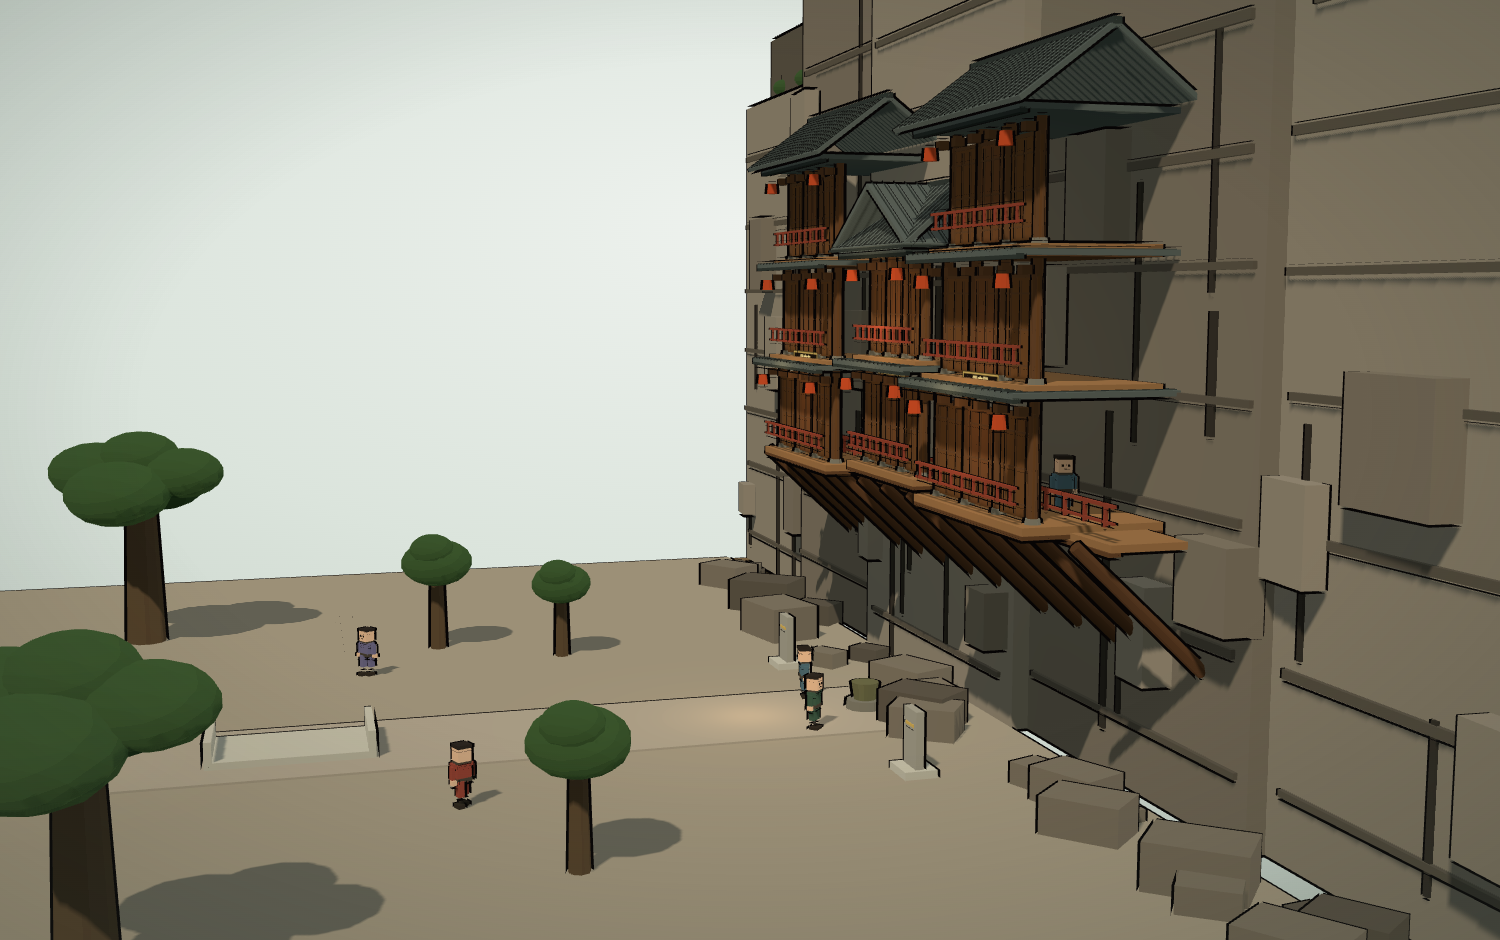
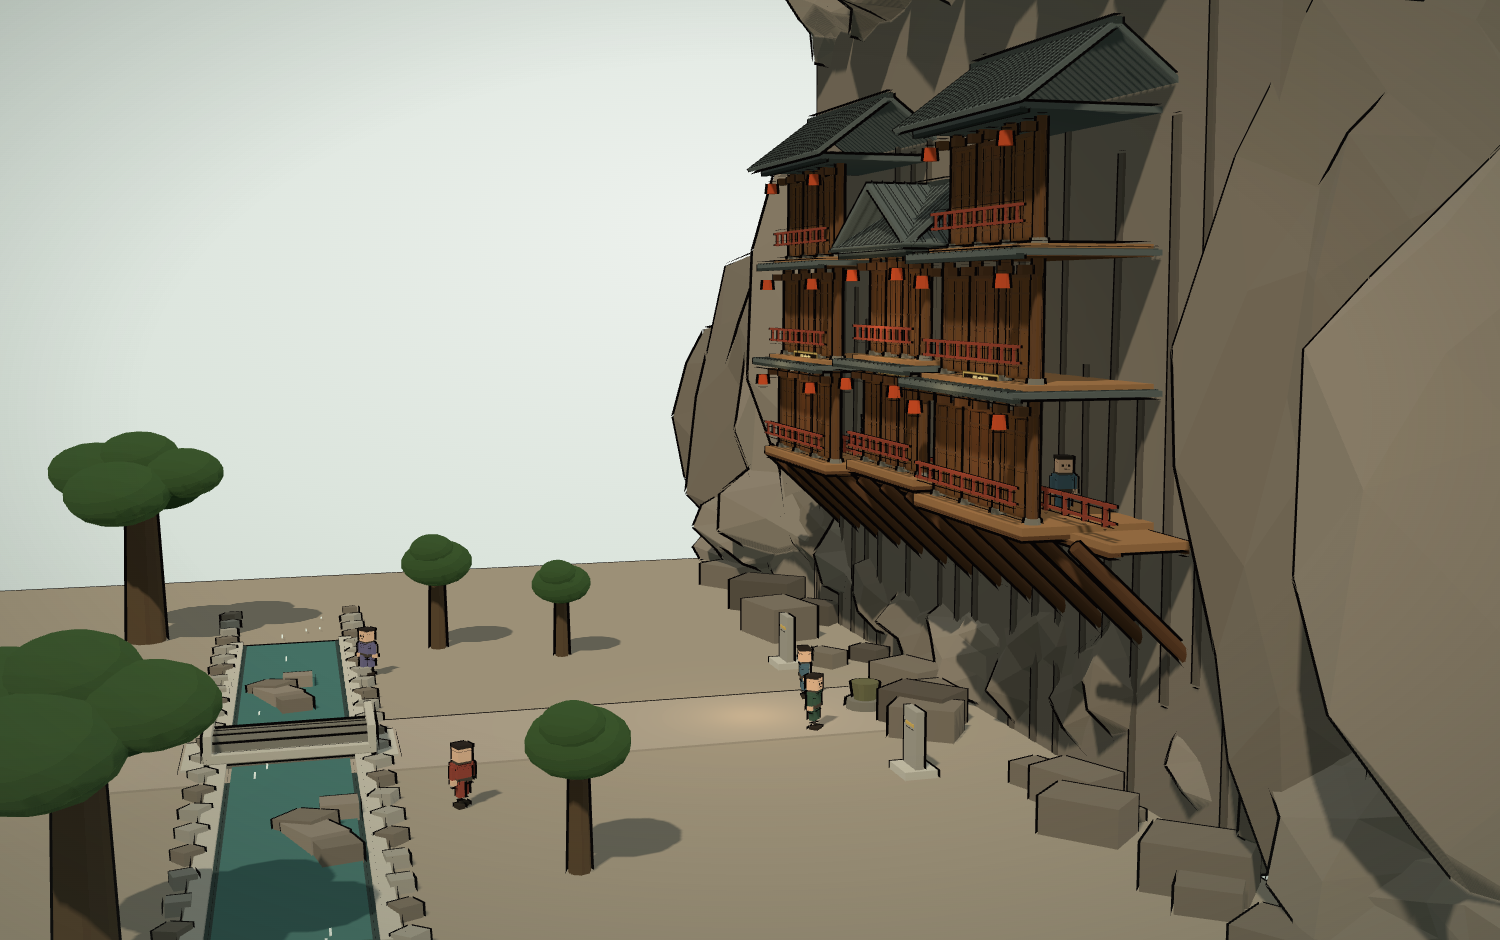
fix(xuankong): 崖壁改为平壁贴阁 + 两侧低模岩山 + 山脊，不再是方盒子

diff --git a/docs/xuankong.html b/docs/xuankong.html
@@ -19742,59 +19742,78 @@ function xsBase(b) {
   }
 }
 
-/* ---------------- 崖壁：五段岩体错落 + 层理 + 裂缝 ---------------- */
+/* ---------------- 崖壁：中间平壁贴楼阁，两侧与崖顶是低模岩山 ---------------- */
+function xsRockHill(b, cx, czBase, R, H, seed, key, y0) {
+  const g = new T.IcosahedronGeometry(1, 2);
+  const p = g.attributes.position;
+  for (let i = 0; i < p.count; i++) {
+    const vx = p.getX(i), vy = p.getY(i), vz = p.getZ(i);
+    /* 位置相关的连续噪声，避免撒点；vy 加权让上部更碎 */
+    const k = 0.88
+      + 0.16 * Math.sin(vx * 3.7 + vy * 2.9 + vz * 3.1 + seed)
+      + 0.09 * Math.sin(vx * 7.3 - vz * 6.1 + seed * 1.7)
+      + 0.05 * Math.cos(Math.atan2(vz, vx) * 5.0 + seed) * (0.3 + 0.7 * Math.abs(vy));
+    p.setXYZ(i, vx * k * R, vy * k * H * 0.5 + H * 0.42, vz * k * R * 1.15);
+  }
+  g.computeVertexNormals();
+  g.translate(cx, (y0 === undefined ? XS_GY : y0), czBase);
+  b.add(key || 'xsRock', g);
+}
+
 function xsCliff(b) {
-  /* 每段：主块（下）+ 台坎（上），正面统一 XS_CZ，两侧段落前后错开 */
-  const segs = [
-    { x: -23.0, w: 10.0, h: 21.0, zf: XS_CZ - 0.9, zb: XS_Z0 },
-    { x: -13.5, w: 9.0, h: 25.0, zf: XS_CZ - 0.4, zb: XS_Z0 },
-    { x: -3.0, w: 12.0, h: 27.0, zf: XS_CZ, zb: XS_Z0 },
-    { x: 8.5, w: 11.0, h: 24.0, zf: XS_CZ - 0.5, zb: XS_Z0 },
-    { x: 20.0, w: 12.0, h: 20.0, zf: XS_CZ - 1.0, zb: XS_Z0 }
-  ];
-  segs.forEach(function (q, k) {
-    const d = q.zf - q.zb;
-    b.box(k % 2 ? 'xsRock' : 'xsRockL', q.w, q.h, d, q.x, XS_GY + q.h / 2, (q.zf + q.zb) / 2);
-    /* 上部台坎：比主块窄、略前，形成崖壁的「肩」 */
-    b.box('xsRockD', q.w * 0.78, 3.2, d * 0.55, q.x + (k % 2 ? 0.4 : -0.4),
-      XS_GY + q.h + 1.4, (q.zf + q.zb) / 2 + 0.4);
-    /* 层理：每 2.8 米一道，别做成货架 */
-    const n = Math.floor(q.h / 2.8);
-    for (let i = 0; i < n; i++) {
-      const yy = XS_GY + 1.4 + i * 2.8;
-      b.box('xsRockD', q.w * (0.86 + xsR(i * 3.1 + k) * 0.12),
-        0.16 + xsR(i * 5.7) * 0.10, 0.20, q.x,
-        yy + xsR(i * 7.3 + k) * 0.6, q.zf + 0.02);
-    }
-    /* 凸岩块：贴面几块，破掉方盒子的直边 */
-    for (let i = 0; i < 4; i++) {
-      const bw = 1.2 + xsR(i * 3.7 + k) * 1.6;
-      const bh = 1.4 + xsR(i * 5.9 + k) * 2.2;
-      b.box(i % 2 ? 'xsRock' : 'xsRockL', bw, bh, 0.55 + xsR(i * 7.1) * 0.5,
-        q.x - q.w / 2 + 1.0 + i * (q.w - 2.0) / 3, XS_GY + 3.0 + xsR(i * 9.3 + k) * (q.h - 8),
-        q.zf + 0.28, 0, (xsR(i * 11.7) - 0.5) * 0.2, 0);
-    }
-    /* 裂缝：竖向深带 */
-    for (let i = 0; i < 5; i++) {
-      const cx = q.x - q.w / 2 + 0.8 + xsR(i * 4.3 + k * 2.1) * (q.w - 1.6);
-      const hh = 2.5 + xsR(i * 6.1 + k) * 7.0;
-      b.box('xsCrack', 0.14 + xsR(i * 8.7) * 0.16, hh, 0.08,
-        cx, XS_GY + 2.0 + xsR(i * 9.3 + k) * (q.h - 6), q.zf + 0.04);
-    }
-    /* 崖顶植被：每段两三丛 */
+  /* 中间平壁：楼阁必须贴平面（真实悬空寺也是贴在较平整的凹龛里） */
+  b.box('xsRock', 30.0, 23.0, 6.0, 0, XS_GY + 11.5, XS_CZ - 3.0);
+  /* 平壁上凿竖痕：不让它读成混凝土 */
+  for (let i = 0; i < 22; i++) {
+    const x = -14.4 + i * 1.35;
+    const hh = 7 + xsR(i * 3.1) * 12;
+    b.box('xsRockD', 0.16 + xsR(i * 5.7) * 0.12, hh, 0.08, x,
+      XS_GY + 2.0 + xsR(i * 7.3) * 12, XS_CZ + 0.04, 0, 0, (xsR(i * 9.1) - 0.5) * 0.04);
+  }
+  /* 平壁上的凹龛：楼阁之间与楼阁下方 */
+  [[-3.6, 10.6, 1.2, 5.5], [3.6, 10.6, 1.2, 5.5], [0, 5.4, 6.0, 2.4]].forEach(function (q) {
+    b.box('xsCrack', q[2], q[3], 0.9, q[0], XS_GY + q[1], XS_CZ - 0.45);
+  });
+
+  /* 两侧：低模岩山，高度向谷底递减 */
+  [
+    [-22.0, 19.0, 5.6, 1.3], [-17.0, 22.0, 4.6, 2.7], [-26.4, 13.0, 4.2, 4.1],
+    [22.0, 18.0, 5.2, 5.3], [17.0, 21.5, 4.4, 6.7], [26.4, 12.0, 4.0, 8.1]
+  ].forEach(function (q, k) {
+    xsRockHill(b, q[0], XS_CZ - q[2] * 0.55, q[2], q[1], q[3], k % 2 ? 'xsRockL' : 'xsRock');
+  });
+
+  /* 平顶盖：五块小岩山压在平壁顶上，藏掉直角 */
+  for (let i = 0; i < 6; i++) {
+    xsRockHill(b, -13.0 + i * 5.2, XS_CZ - 2.2, 3.4 + xsR(i * 3.3) * 1.2, 4.6 + xsR(i * 5.1) * 2.2,
+      60 + i, i % 2 ? 'xsRock' : 'xsRockL', XS_GY + 21.0);
+  }
+  /* 崖顶山脊：一串小岩山压天际线 */
+  for (let i = 0; i < 13; i++) {
+    const x = -24 + i * 4.0;
+    const hh = 2.6 + xsR(i * 3.1) * 3.4 + Math.sin(x * 0.24) * 1.2;
+    xsRockHill(b, x, XS_CZ - 2.6, 2.6 + xsR(i * 5.7) * 1.2, hh, 20 + i, i % 3 ? 'xsRock' : 'xsRockL');
+  }
+
+  /* 崖脚：向谷底过渡的碎石坡 */
+  [[-20.0, 6.2, 7.0], [20.5, 5.6, 6.4]].forEach(function (q, k) {
     for (let i = 0; i < 3; i++) {
-      const tx = q.x - q.w / 3 + i * (q.w / 3) + 0.6;
-      const ty = XS_GY + q.h + 0.2;
-      b.sph('xsPine', 0.55 + xsR(i * 5.1 + k) * 0.35, tx, ty + 0.55, q.zf - 1.2, 1.2, 0.7, 1.1);
-      b.cyl('xsBark', 0.10, 0.13, 1.1, 6, tx, ty + 0.55, q.zf - 1.2);
+      xsRockHill(b, q[0] + (k ? 1 : -1) * i * 1.6, XS_CZ - 3.4 + i * 1.0,
+        q[1] * (1 - i * 0.22), q[2] * (1 - i * 0.3), 40 + i + k * 5, 'xsRockL');
     }
   });
-  /* 崖顶平台与栏杆（观景处） */
-  b.box('xsRockL', 10.0, 0.26, 2.2, 0, XS_GY + XS_CT + 0.13, XS_CZ - 1.6);
-  for (let i = 0; i < 9; i++) {
-    b.box('xsWoodD', 0.10, 0.75, 0.10, -6.4 + i * 1.6, XS_GY + XS_CT + 0.68, XS_CZ - 0.30);
+
+  /* 崖顶平台 + 栏杆 + 松 */
+  b.box('xsRockL', 9.0, 0.26, 2.2, 0, XS_GY + 23.30, XS_CZ - 1.8);
+  for (let i = 0; i < 7; i++) {
+    b.box('xsWoodD', 0.10, 0.72, 0.10, -4.8 + i * 1.6, XS_GY + 23.80, XS_CZ - 0.55);
   }
-  b.box('xsWoodD', 13.4, 0.09, 0.09, 0, XS_GY + XS_CT + 1.02, XS_CZ - 0.30);
+  b.box('xsWoodD', 9.8, 0.09, 0.09, 0, XS_GY + 24.14, XS_CZ - 0.55);
+  for (let i = 0; i < 5; i++) {
+    const x = -18 + xsR(i * 3.3) * 36;
+    b.sph('xsPine', 0.7 + xsR(i * 5.1) * 0.4, x, XS_GY + 24.10, XS_CZ - 2.2, 1.2, 0.7, 1.1);
+    b.cyl('xsBark', 0.12, 0.15, 1.0, 6, x, XS_GY + 23.65, XS_CZ - 2.2);
+  }
 }
 
 /* ---------------- 贴壁楼阁：三层木构，后墙由崖壁充当 ---------------- */
@@ -19895,10 +19914,10 @@ function xsWalkway(b) {
 function xsValley(b) {
   const cz = 7.0;
   /* 溪流：做成地面上的石砌水渠，水面必须高于地面（0.55），否则被整块地面埋掉 */
-  b.box('xsRiverBed', 40.0, 0.14, 3.4, 0, XS_GY + 0.07, cz);
-  b.box('xsWaterD', 39.4, 0.05, 3.0, 0, XS_GY + 0.16, cz);
+  b.box('xsRiverBed', 28.0, 0.14, 3.4, 0, XS_GY + 0.07, cz);
+  b.box('xsWaterD', 27.4, 0.05, 3.0, 0, XS_GY + 0.16, cz);
   [-1, 1].forEach(function (s) {
-    b.box('xsStoneL', 40.0, 0.26, 0.42, 0, XS_GY + 0.14, cz + s * 1.85);
+    b.box('xsStoneL', 28.0, 0.26, 0.42, 0, XS_GY + 0.14, cz + s * 1.85);
     for (let i = 0; i < 26; i++) {
       b.box(i % 3 ? 'xsStone' : 'xsRock', 0.55, 0.30, 0.5,
         -19 + i * 1.5, XS_GY + 0.22, cz + s * 2.2, 0, xsR(i * 3.1 + s) * 1.2, 0.08);
@@ -19908,6 +19927,14 @@ function xsValley(b) {
     b.box('xsFoam', 0.3 + xsR(i * 7.3) * 0.4, 0.02, 0.05,
       -18 + xsR(i * 3.1) * 36, XS_GY + 0.20, cz + (xsR(i * 5.7) - 0.5) * 2.2);
   }
+  /* 渠中石矶：打断直水的「泳道感」 */
+  [[-7.6, 0.4], [5.8, -0.5]].forEach(function (q) {
+    for (let i = 0; i < 4; i++) {
+      b.box(i % 2 ? 'xsRock' : 'xsRockL', 1.1 + xsR(i * 3.1) * 0.8, 0.5,
+        0.9, q[0] + i * 0.9, XS_GY + 0.24, cz + q[1] + (xsR(i * 5.7) - 0.5) * 1.2,
+        0, xsR(i * 7.3) * 1.2, 0.1);
+    }
+  });
   /* 石桥：桥面 + 桥拱 + 两级石阶 */
   b.box('xsStoneL', 2.6, 0.22, 4.4, 0, XS_GY + 0.42, cz);
   [-1, 1].forEach(function (s) {

diff --git a/src/scene.js b/src/scene.js
@@ -19606,59 +19606,78 @@ function xsBase(b) {
   }
 }
 
-/* ---------------- 崖壁：五段岩体错落 + 层理 + 裂缝 ---------------- */
+/* ---------------- 崖壁：中间平壁贴楼阁，两侧与崖顶是低模岩山 ---------------- */
+function xsRockHill(b, cx, czBase, R, H, seed, key, y0) {
+  const g = new T.IcosahedronGeometry(1, 2);
+  const p = g.attributes.position;
+  for (let i = 0; i < p.count; i++) {
+    const vx = p.getX(i), vy = p.getY(i), vz = p.getZ(i);
+    /* 位置相关的连续噪声，避免撒点；vy 加权让上部更碎 */
+    const k = 0.88
+      + 0.16 * Math.sin(vx * 3.7 + vy * 2.9 + vz * 3.1 + seed)
+      + 0.09 * Math.sin(vx * 7.3 - vz * 6.1 + seed * 1.7)
+      + 0.05 * Math.cos(Math.atan2(vz, vx) * 5.0 + seed) * (0.3 + 0.7 * Math.abs(vy));
+    p.setXYZ(i, vx * k * R, vy * k * H * 0.5 + H * 0.42, vz * k * R * 1.15);
+  }
+  g.computeVertexNormals();
+  g.translate(cx, (y0 === undefined ? XS_GY : y0), czBase);
+  b.add(key || 'xsRock', g);
+}
+
 function xsCliff(b) {
-  /* 每段：主块（下）+ 台坎（上），正面统一 XS_CZ，两侧段落前后错开 */
-  const segs = [
-    { x: -23.0, w: 10.0, h: 21.0, zf: XS_CZ - 0.9, zb: XS_Z0 },
-    { x: -13.5, w: 9.0, h: 25.0, zf: XS_CZ - 0.4, zb: XS_Z0 },
-    { x: -3.0, w: 12.0, h: 27.0, zf: XS_CZ, zb: XS_Z0 },
-    { x: 8.5, w: 11.0, h: 24.0, zf: XS_CZ - 0.5, zb: XS_Z0 },
-    { x: 20.0, w: 12.0, h: 20.0, zf: XS_CZ - 1.0, zb: XS_Z0 }
-  ];
-  segs.forEach(function (q, k) {
-    const d = q.zf - q.zb;
-    b.box(k % 2 ? 'xsRock' : 'xsRockL', q.w, q.h, d, q.x, XS_GY + q.h / 2, (q.zf + q.zb) / 2);
-    /* 上部台坎：比主块窄、略前，形成崖壁的「肩」 */
-    b.box('xsRockD', q.w * 0.78, 3.2, d * 0.55, q.x + (k % 2 ? 0.4 : -0.4),
-      XS_GY + q.h + 1.4, (q.zf + q.zb) / 2 + 0.4);
-    /* 层理：每 2.8 米一道，别做成货架 */
-    const n = Math.floor(q.h / 2.8);
-    for (let i = 0; i < n; i++) {
-      const yy = XS_GY + 1.4 + i * 2.8;
-      b.box('xsRockD', q.w * (0.86 + xsR(i * 3.1 + k) * 0.12),
-        0.16 + xsR(i * 5.7) * 0.10, 0.20, q.x,
-        yy + xsR(i * 7.3 + k) * 0.6, q.zf + 0.02);
-    }
-    /* 凸岩块：贴面几块，破掉方盒子的直边 */
-    for (let i = 0; i < 4; i++) {
-      const bw = 1.2 + xsR(i * 3.7 + k) * 1.6;
-      const bh = 1.4 + xsR(i * 5.9 + k) * 2.2;
-      b.box(i % 2 ? 'xsRock' : 'xsRockL', bw, bh, 0.55 + xsR(i * 7.1) * 0.5,
-        q.x - q.w / 2 + 1.0 + i * (q.w - 2.0) / 3, XS_GY + 3.0 + xsR(i * 9.3 + k) * (q.h - 8),
-        q.zf + 0.28, 0, (xsR(i * 11.7) - 0.5) * 0.2, 0);
-    }
-    /* 裂缝：竖向深带 */
-    for (let i = 0; i < 5; i++) {
-      const cx = q.x - q.w / 2 + 0.8 + xsR(i * 4.3 + k * 2.1) * (q.w - 1.6);
-      const hh = 2.5 + xsR(i * 6.1 + k) * 7.0;
-      b.box('xsCrack', 0.14 + xsR(i * 8.7) * 0.16, hh, 0.08,
-        cx, XS_GY + 2.0 + xsR(i * 9.3 + k) * (q.h - 6), q.zf + 0.04);
-    }
-    /* 崖顶植被：每段两三丛 */
+  /* 中间平壁：楼阁必须贴平面（真实悬空寺也是贴在较平整的凹龛里） */
+  b.box('xsRock', 30.0, 23.0, 6.0, 0, XS_GY + 11.5, XS_CZ - 3.0);
+  /* 平壁上凿竖痕：不让它读成混凝土 */
+  for (let i = 0; i < 22; i++) {
+    const x = -14.4 + i * 1.35;
+    const hh = 7 + xsR(i * 3.1) * 12;
+    b.box('xsRockD', 0.16 + xsR(i * 5.7) * 0.12, hh, 0.08, x,
+      XS_GY + 2.0 + xsR(i * 7.3) * 12, XS_CZ + 0.04, 0, 0, (xsR(i * 9.1) - 0.5) * 0.04);
+  }
+  /* 平壁上的凹龛：楼阁之间与楼阁下方 */
+  [[-3.6, 10.6, 1.2, 5.5], [3.6, 10.6, 1.2, 5.5], [0, 5.4, 6.0, 2.4]].forEach(function (q) {
+    b.box('xsCrack', q[2], q[3], 0.9, q[0], XS_GY + q[1], XS_CZ - 0.45);
+  });
+
+  /* 两侧：低模岩山，高度向谷底递减 */
+  [
+    [-22.0, 19.0, 5.6, 1.3], [-17.0, 22.0, 4.6, 2.7], [-26.4, 13.0, 4.2, 4.1],
+    [22.0, 18.0, 5.2, 5.3], [17.0, 21.5, 4.4, 6.7], [26.4, 12.0, 4.0, 8.1]
+  ].forEach(function (q, k) {
+    xsRockHill(b, q[0], XS_CZ - q[2] * 0.55, q[2], q[1], q[3], k % 2 ? 'xsRockL' : 'xsRock');
+  });
+
+  /* 平顶盖：五块小岩山压在平壁顶上，藏掉直角 */
+  for (let i = 0; i < 6; i++) {
+    xsRockHill(b, -13.0 + i * 5.2, XS_CZ - 2.2, 3.4 + xsR(i * 3.3) * 1.2, 4.6 + xsR(i * 5.1) * 2.2,
+      60 + i, i % 2 ? 'xsRock' : 'xsRockL', XS_GY + 21.0);
+  }
+  /* 崖顶山脊：一串小岩山压天际线 */
+  for (let i = 0; i < 13; i++) {
+    const x = -24 + i * 4.0;
+    const hh = 2.6 + xsR(i * 3.1) * 3.4 + Math.sin(x * 0.24) * 1.2;
+    xsRockHill(b, x, XS_CZ - 2.6, 2.6 + xsR(i * 5.7) * 1.2, hh, 20 + i, i % 3 ? 'xsRock' : 'xsRockL');
+  }
+
+  /* 崖脚：向谷底过渡的碎石坡 */
+  [[-20.0, 6.2, 7.0], [20.5, 5.6, 6.4]].forEach(function (q, k) {
     for (let i = 0; i < 3; i++) {
-      const tx = q.x - q.w / 3 + i * (q.w / 3) + 0.6;
-      const ty = XS_GY + q.h + 0.2;
-      b.sph('xsPine', 0.55 + xsR(i * 5.1 + k) * 0.35, tx, ty + 0.55, q.zf - 1.2, 1.2, 0.7, 1.1);
-      b.cyl('xsBark', 0.10, 0.13, 1.1, 6, tx, ty + 0.55, q.zf - 1.2);
+      xsRockHill(b, q[0] + (k ? 1 : -1) * i * 1.6, XS_CZ - 3.4 + i * 1.0,
+        q[1] * (1 - i * 0.22), q[2] * (1 - i * 0.3), 40 + i + k * 5, 'xsRockL');
     }
   });
-  /* 崖顶平台与栏杆（观景处） */
-  b.box('xsRockL', 10.0, 0.26, 2.2, 0, XS_GY + XS_CT + 0.13, XS_CZ - 1.6);
-  for (let i = 0; i < 9; i++) {
-    b.box('xsWoodD', 0.10, 0.75, 0.10, -6.4 + i * 1.6, XS_GY + XS_CT + 0.68, XS_CZ - 0.30);
+
+  /* 崖顶平台 + 栏杆 + 松 */
+  b.box('xsRockL', 9.0, 0.26, 2.2, 0, XS_GY + 23.30, XS_CZ - 1.8);
+  for (let i = 0; i < 7; i++) {
+    b.box('xsWoodD', 0.10, 0.72, 0.10, -4.8 + i * 1.6, XS_GY + 23.80, XS_CZ - 0.55);
   }
-  b.box('xsWoodD', 13.4, 0.09, 0.09, 0, XS_GY + XS_CT + 1.02, XS_CZ - 0.30);
+  b.box('xsWoodD', 9.8, 0.09, 0.09, 0, XS_GY + 24.14, XS_CZ - 0.55);
+  for (let i = 0; i < 5; i++) {
+    const x = -18 + xsR(i * 3.3) * 36;
+    b.sph('xsPine', 0.7 + xsR(i * 5.1) * 0.4, x, XS_GY + 24.10, XS_CZ - 2.2, 1.2, 0.7, 1.1);
+    b.cyl('xsBark', 0.12, 0.15, 1.0, 6, x, XS_GY + 23.65, XS_CZ - 2.2);
+  }
 }
 
 /* ---------------- 贴壁楼阁：三层木构，后墙由崖壁充当 ---------------- */
@@ -19759,10 +19778,10 @@ function xsWalkway(b) {
 function xsValley(b) {
   const cz = 7.0;
   /* 溪流：做成地面上的石砌水渠，水面必须高于地面（0.55），否则被整块地面埋掉 */
-  b.box('xsRiverBed', 40.0, 0.14, 3.4, 0, XS_GY + 0.07, cz);
-  b.box('xsWaterD', 39.4, 0.05, 3.0, 0, XS_GY + 0.16, cz);
+  b.box('xsRiverBed', 28.0, 0.14, 3.4, 0, XS_GY + 0.07, cz);
+  b.box('xsWaterD', 27.4, 0.05, 3.0, 0, XS_GY + 0.16, cz);
   [-1, 1].forEach(function (s) {
-    b.box('xsStoneL', 40.0, 0.26, 0.42, 0, XS_GY + 0.14, cz + s * 1.85);
+    b.box('xsStoneL', 28.0, 0.26, 0.42, 0, XS_GY + 0.14, cz + s * 1.85);
     for (let i = 0; i < 26; i++) {
       b.box(i % 3 ? 'xsStone' : 'xsRock', 0.55, 0.30, 0.5,
         -19 + i * 1.5, XS_GY + 0.22, cz + s * 2.2, 0, xsR(i * 3.1 + s) * 1.2, 0.08);
@@ -19772,6 +19791,14 @@ function xsValley(b) {
     b.box('xsFoam', 0.3 + xsR(i * 7.3) * 0.4, 0.02, 0.05,
       -18 + xsR(i * 3.1) * 36, XS_GY + 0.20, cz + (xsR(i * 5.7) - 0.5) * 2.2);
   }
+  /* 渠中石矶：打断直水的「泳道感」 */
+  [[-7.6, 0.4], [5.8, -0.5]].forEach(function (q) {
+    for (let i = 0; i < 4; i++) {
+      b.box(i % 2 ? 'xsRock' : 'xsRockL', 1.1 + xsR(i * 3.1) * 0.8, 0.5,
+        0.9, q[0] + i * 0.9, XS_GY + 0.24, cz + q[1] + (xsR(i * 5.7) - 0.5) * 1.2,
+        0, xsR(i * 7.3) * 1.2, 0.1);
+    }
+  });
   /* 石桥：桥面 + 桥拱 + 两级石阶 */
   b.box('xsStoneL', 2.6, 0.22, 4.4, 0, XS_GY + 0.42, cz);
   [-1, 1].forEach(function (s) {

diff --git a/README.md b/README.md
@@ -81,7 +81,7 @@
 | `garden` | 苏州园林 · 一池三山 | 日景 / 大型园林 | 68×52 米大宅园：西花园 + 主园 + 东宅四进 + 东路花厅/书房 + 北后园 + 南前庭 + 果园，主池居中、远香堂面水、池中六角亭、二层见山楼、扇亭、石舫、曲廊、小飞虹廊桥、南岸太湖石假山、东西小院与月洞门；粉墙黛瓦、花街铺地、竹柳梅荷 |
 | `tulou` | 福建土楼 · 承启楼 | 日景 / 圆形巨构 | 外径 30.4 米、墙厚 1.5、四层 36 开间环廊、环形双坡瓦顶、内院祠堂与水井、门前半月池、旗杆石与竹林菜地 |
 | `lijiang` | 丽江古城 · 四方街 | 日景 / 河街街区 | 56×44 米：玉河贯南、三座石桥、四方街与骑楼店铺、木府三进与牌坊、两岸三坊一照壁民居、双水车与垂柳 |
-| `xuankong` | 悬空寺 · 恒山 | 日景 / 崖壁贴壁 | 56×40 米：27 米崖壁、三层楼阁贴壁悬挑、栈道与斜撑木柱、谷底石渠与山门 |
+| `xuankong` | 悬空寺 · 恒山 | 日景 / 崖壁贴壁 | 56×40 米：崖壁（中间平壁贴楼阁 + 两侧低模岩山 + 山脊）、三层楼阁悬挑、栈道与斜撑、谷底石渠与山门 |
 
 ## 快速开始
 
@@ -499,7 +499,7 @@ CT_ANIM.push(function (t) {
 - **谷底水渠**：水面必须**高于地面**（地面 0.55、水面 0.65），否则被整块地面埋掉；
   两侧加石沿与散石，才不像泳道。
 
-定稿 82 mesh / 41093 三角，`magenta:[] / errors:[]`；22 套全量回归全绿。
+定稿 82 mesh / 48365 三角，`magenta:[] / errors:[]`；22 套全量回归全绿。
 ### 人物：刻意几何化的积木人
 
 拟真路线（球头 + 锥台躯干 + 分段圆柱四肢）在这套 toon + 描边风格里
